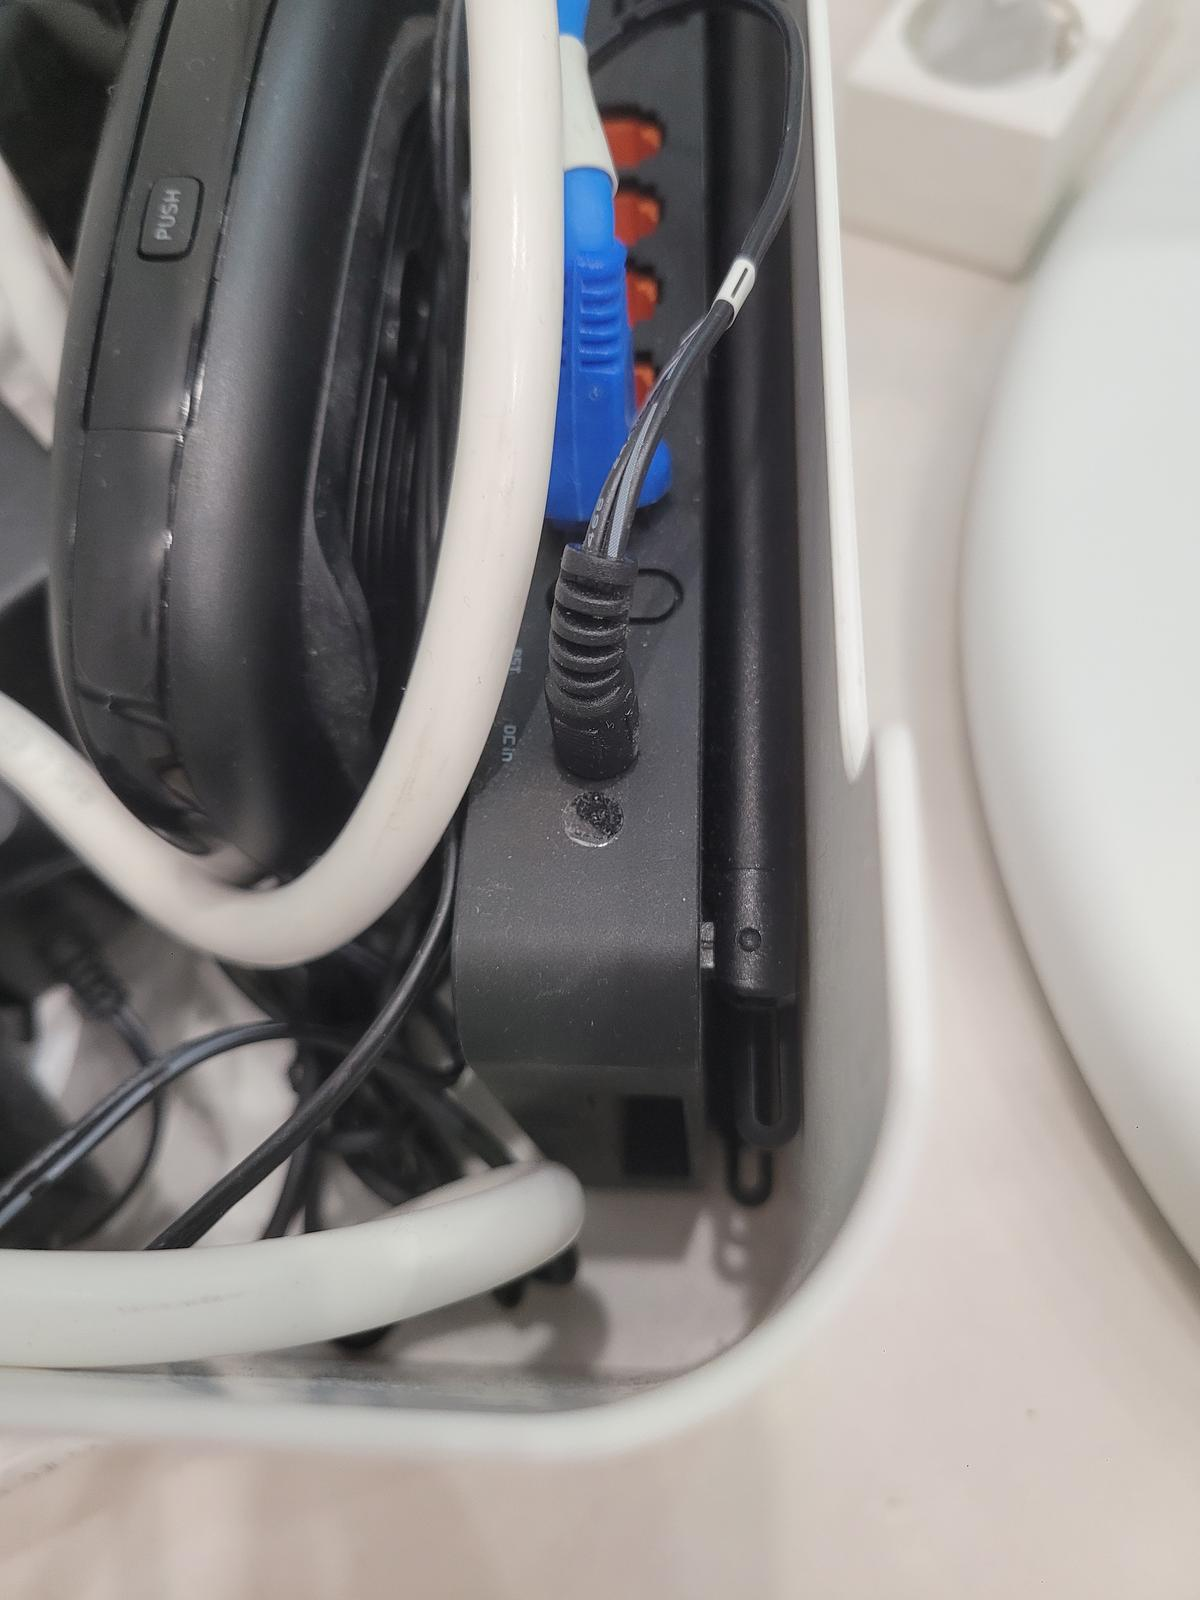
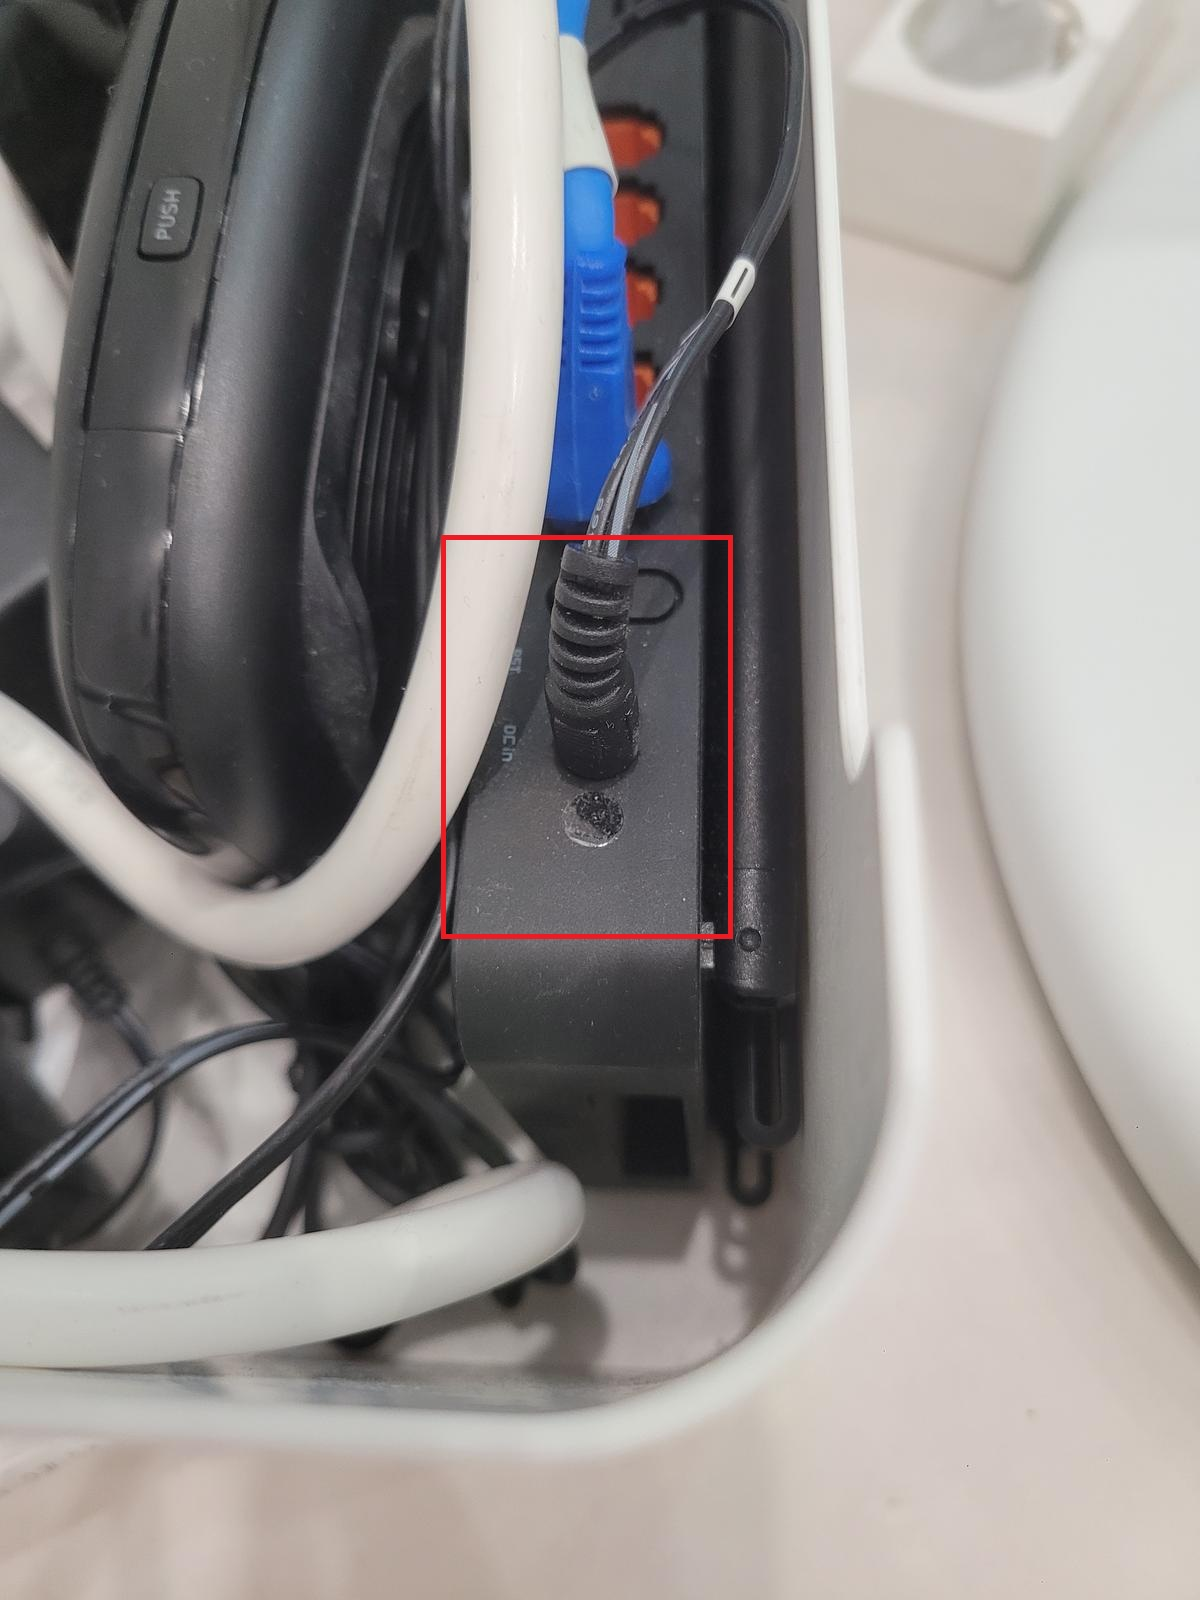
chore: 미사용 이미지 정리 및 지하 표현 제거 + 수정 이미지 캐시 버스팅
- 사이트에서 실제 사용하지 않는 이미지 25개 삭제 (boiler/tv/washer)
- 길안내 문구에서 '지하로/basement/地下' 표현 4개국어 모두 제거
- 빨간 박스 강조가 추가된 이미지 4개에 ?v=2 적용 (boiler/01, tv/04, tv/09, tv/10)

Changed region(s): [[0.37, 0.3125, 0.6167, 0.5938], [0.3392, 0.3438, 0.37, 0.5625]]

diff --git a/script.js b/script.js
@@ -447,20 +447,20 @@ const SLIDE_DATA = {
     { src: './assets/img/direction/01_building_exterior.jpg?v=2', type: 'image', caption: { ko: '골목에서 보이는 건물 모습입니다', en: 'Building view from the alley', ja: '路地から見える建物の様子です', zh: '从巷子里看到的建筑外观' } },
     { src: './assets/img/direction/02_building_entrance.jpg?v=2', type: 'image', caption: { ko: '36번 주소판이 있는 입구입니다', en: 'Entrance with address number 36', ja: '36番の住所プレートがある入口です', zh: '有36号地址牌的入口' } },
     { src: './assets/img/direction/03_address_sign.jpg?v=2', type: 'image', caption: { ko: '도로명 주소 안내판을 확인하세요', en: 'Check the street address sign', ja: '道路名住所の案内板を確認してください', zh: '请确认路名地址指示牌' } },
-    { src: './assets/img/direction/04_stairs_entrance.jpg?v=2', type: 'image', caption: { ko: '계단을 따라 지하로 내려가세요', en: 'Go down the stairs to the basement', ja: '階段に沿って地下へ降りてください', zh: '沿楼梯下到地下' } },
+    { src: './assets/img/direction/04_stairs_entrance.jpg?v=2', type: 'image', caption: { ko: '계단을 따라 내려가세요', en: 'Go down the stairs', ja: '階段に沿って降りてください', zh: '沿楼梯下去' } },
     { src: './assets/img/direction/05_room_b102_sign.jpg', type: 'image', caption: { ko: '벽에 B102 표시를 확인하세요', en: 'Look for the B102 sign on the wall', ja: '壁のB102表示を確認してください', zh: '请确认墙上的B102标识' } },
     { src: './assets/img/direction/06_front_door.jpg', type: 'image', caption: { ko: 'WELCOME 매트가 있는 현관문입니다', en: 'Front door with WELCOME mat', ja: 'WELCOMEマットのある玄関ドアです', zh: '有WELCOME地垫的大门' } },
   ],
   boiler: [
-    { src: './assets/img/boiler/01_controller_on.jpg', type: 'image', caption: { ko: '우측 위 화살표로 온도를 조절하세요', en: 'Adjust temperature with the upper-right arrows', ja: '右上の矢印で温度を調整してください', zh: '用右上方箭头调节温度' } },
+    { src: './assets/img/boiler/01_controller_on.jpg?v=2', type: 'image', caption: { ko: '우측 위 화살표로 온도를 조절하세요', en: 'Adjust temperature with the upper-right arrows', ja: '右上の矢印で温度を調整してください', zh: '用右上方箭头调节温度' } },
   ],
   tv: [
     { src: './assets/img/tv/01_monitor.jpg', type: 'image', caption: { ko: 'TV 모니터입니다', en: 'TV monitor', ja: 'TVモニターです', zh: '电视显示器' } },
     { src: './assets/img/tv/02_remote_settopbox.jpg', type: 'image', caption: { ko: '검정색 리모컨의 좌측 맨 위 빨간색 버튼이 TV 전원 버튼입니다', en: 'The red button at the top-left of the black remote is the TV power button', ja: '黒いリモコンの左上の赤いボタンがTV電源ボタンです', zh: '黑色遥控器左上方的红色按钮是电视电源按钮' } },
-    { src: './assets/img/tv/04_settopbox_back_closeup.jpg', type: 'image', caption: { ko: '붉은색 전원 표시등 왼쪽에 TV 전원 버튼이 있습니다. 리모컨으로 켜지지 않을 때 눌러주세요', en: 'TV power button is to the left of the red power indicator. Press it if the remote doesn\'t work', ja: '赤い電源ランプの左側にTV電源ボタンがあります。リモコンで電源が入らない時に押してください', zh: '红色电源指示灯左侧有电视电源按钮。遥控器无法开机时请按此按钮' } },
+    { src: './assets/img/tv/04_settopbox_back_closeup.jpg?v=2', type: 'image', caption: { ko: '붉은색 전원 표시등 왼쪽에 TV 전원 버튼이 있습니다. 리모컨으로 켜지지 않을 때 눌러주세요', en: 'TV power button is to the left of the red power indicator. Press it if the remote doesn\'t work', ja: '赤い電源ランプの左側にTV電源ボタンがあります。リモコンで電源が入らない時に押してください', zh: '红色电源指示灯左侧有电视电源按钮。遥控器无法开机时请按此按钮' } },
     { src: './assets/img/tv/08_remote_side.jpg', type: 'image', caption: { ko: '측면 위쪽 버튼이 외부입력입니다. HDMI 3을 선택하면 TV를 볼 수 있습니다. + TV - 버튼으로 음량을 조절하세요', en: 'Top side button is external input. Select HDMI 3 to watch TV. Use + TV - buttons to adjust volume', ja: '側面上部のボタンが外部入力です。HDMI 3を選択するとTVが見られます。+ TV - ボタンで音量を調整してください', zh: '侧面上方按钮是外部输入。选择HDMI 3即可看电视。用 + TV - 按钮调节音量' } },
-    { src: './assets/img/tv/09_cable_box.jpg', type: 'image', caption: { ko: 'TV 뒤쪽 케이블 정리함', en: 'Cable management box behind TV', ja: 'テレビ裏のケーブル整理ボックス', zh: '电视后面的线缆整理盒' } },
-    { src: './assets/img/tv/10_cable_box_closeup.jpg', type: 'image', caption: { ko: 'Wi-Fi가 안 잡힐 때는 DC in 케이블을 뽑았다가 다시 꽂아주세요', en: 'If Wi-Fi is not working, unplug the DC in cable and plug it back in', ja: 'Wi-Fiが繋がらない時はDC inケーブルを抜いて再度差し込んでください', zh: 'Wi-Fi无法连接时，请拔出DC in线缆后重新插入' } },
+    { src: './assets/img/tv/09_cable_box.jpg?v=2', type: 'image', caption: { ko: 'TV 뒤쪽 케이블 정리함', en: 'Cable management box behind TV', ja: 'テレビ裏のケーブル整理ボックス', zh: '电视后面的线缆整理盒' } },
+    { src: './assets/img/tv/10_cable_box_closeup.jpg?v=2', type: 'image', caption: { ko: 'Wi-Fi가 안 잡힐 때는 DC in 케이블을 뽑았다가 다시 꽂아주세요', en: 'If Wi-Fi is not working, unplug the DC in cable and plug it back in', ja: 'Wi-Fiが繋がらない時はDC inケーブルを抜いて再度差し込んでください', zh: 'Wi-Fi无法连接时，请拔出DC in线缆后重新插入' } },
   ],
   washer: [
     { src: './assets/img/washer/01_washer_dryer_full.jpg', type: 'image', caption: { ko: '아래쪽이 세탁기, 위쪽이 건조기입니다', en: 'Bottom is the washer, top is the dryer', ja: '下が洗濯機、上が乾燥機です', zh: '下面是洗衣机，上面是烘干机' } },

diff --git a/lang/ja.html b/lang/ja.html
@@ -55,7 +55,7 @@
           <div class="checkin-step-number">2</div>
           <div>
             <h3 class="checkin-step-title">B102号室へ移動</h3>
-            <p class="checkin-step-desc">階段に沿って地下へ降りてください。<strong>B102号室</strong>は廊下の突き当たり右側にあります。</p>
+            <p class="checkin-step-desc">階段に沿って降りてください。<strong>B102号室</strong>は廊下の突き当たり右側にあります。</p>
           </div>
         </div>
       </div>
@@ -96,7 +96,7 @@
         <p class="appliance-card-desc">備え付けのリモコンを使用してください。電源ボタン→温度調節。推奨温度: <strong>24-26°C</strong>。</p>
       </div>
       <div class="appliance-card" data-category="boiler">
-        <div class="appliance-thumb"><img src="./assets/img/boiler/01_controller_on.jpg" alt="ボイラー"></div>
+        <div class="appliance-thumb"><img src="./assets/img/boiler/01_controller_on.jpg?v=2" alt="ボイラー"></div>
         <h3 class="appliance-card-title">床暖房（ボイラー）</h3>
         <p class="appliance-card-desc">温度調節器は玄関横の壁にあります。右上の矢印で温度を調整してください。</p>
         <p class="appliance-card-photos">📷 写真を見る</p>

diff --git a/lang/ko.html b/lang/ko.html
@@ -54,7 +54,7 @@
           <div class="checkin-step-number">2</div>
           <div>
             <h3 class="checkin-step-title">B102호로 이동</h3>
-            <p class="checkin-step-desc">계단을 따라 지하로 내려가세요. <strong>B102호</strong>는 복도 끝 오른쪽에 있습니다.</p>
+            <p class="checkin-step-desc">계단을 따라 내려가세요. <strong>B102호</strong>는 복도 끝 오른쪽에 있습니다.</p>
           </div>
         </div>
       </div>
@@ -95,7 +95,7 @@
         <p class="appliance-card-desc">준비되어 있는 리모컨을 사용하세요. 전원 버튼 → 온도 조절. 권장 온도: <strong>24-26°C</strong>.</p>
       </div>
       <div class="appliance-card" data-category="boiler">
-        <div class="appliance-thumb"><img src="./assets/img/boiler/01_controller_on.jpg" alt="보일러"></div>
+        <div class="appliance-thumb"><img src="./assets/img/boiler/01_controller_on.jpg?v=2" alt="보일러"></div>
         <h3 class="appliance-card-title">바닥 난방 (보일러)</h3>
         <p class="appliance-card-desc">온도조절기는 현관 옆 벽에 있습니다. 우측 위 화살표로 온도를 조절하세요.</p>
         <p class="appliance-card-photos">📷 사진 보기</p>

diff --git a/lang/en.html b/lang/en.html
@@ -56,7 +56,7 @@
           <div class="checkin-step-number">2</div>
           <div>
             <h3 class="checkin-step-title">Go to Room B102</h3>
-            <p class="checkin-step-desc">Go down the stairs to the basement. Room <strong>B102</strong> is at the end of the hallway on the right.</p>
+            <p class="checkin-step-desc">Go down the stairs. Room <strong>B102</strong> is at the end of the hallway on the right.</p>
           </div>
         </div>
       </div>
@@ -97,7 +97,7 @@
         <p class="appliance-card-desc">Use the remote provided. Press power, then adjust temperature. Recommended: <strong>24-26°C</strong>.</p>
       </div>
       <div class="appliance-card" data-category="boiler">
-        <div class="appliance-thumb"><img src="./assets/img/boiler/01_controller_on.jpg" alt="Boiler"></div>
+        <div class="appliance-thumb"><img src="./assets/img/boiler/01_controller_on.jpg?v=2" alt="Boiler"></div>
         <h3 class="appliance-card-title">Floor Heating</h3>
         <p class="appliance-card-desc">Thermostat is on the wall near entrance. Adjust temperature with the upper-right arrows.</p>
         <p class="appliance-card-photos">📷 View photos</p>

diff --git a/lang/zh.html b/lang/zh.html
@@ -54,7 +54,7 @@
           <div class="checkin-step-number">2</div>
           <div>
             <h3 class="checkin-step-title">前往B102号房间</h3>
-            <p class="checkin-step-desc">沿楼梯下到地下层。<strong>B102号</strong>在走廊尽头右侧。</p>
+            <p class="checkin-step-desc">沿楼梯下去。<strong>B102号</strong>在走廊尽头右侧。</p>
           </div>
         </div>
       </div>
@@ -95,7 +95,7 @@
         <p class="appliance-card-desc">使用准备好的遥控器。按电源键后调节温度。建议温度: <strong>24-26°C</strong>。</p>
       </div>
       <div class="appliance-card" data-category="boiler">
-        <div class="appliance-thumb"><img src="./assets/img/boiler/01_controller_on.jpg" alt="锅炉"></div>
+        <div class="appliance-thumb"><img src="./assets/img/boiler/01_controller_on.jpg?v=2" alt="锅炉"></div>
         <h3 class="appliance-card-title">地暖（锅炉）</h3>
         <p class="appliance-card-desc">温控器在门口旁边的墙上。用右上方箭头调节温度。</p>
         <p class="appliance-card-photos">📷 查看照片</p>
